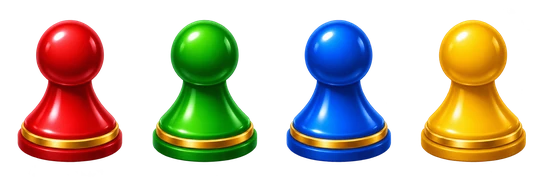
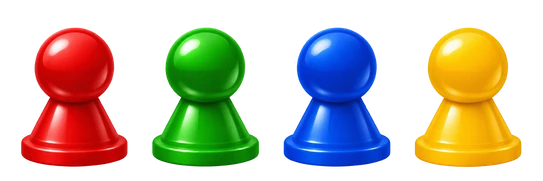
Polish Ludu Mahir pawns, dice, and gameplay feedback

diff --git a/games/ludo/ludo.css b/games/ludo/ludo.css
@@ -996,6 +996,7 @@ body.ludo-game .play-toolbar .board-logo img{position:absolute;inset:0;width:100
 body.ludo-game .play-toolbar .board-logo strong{position:relative;z-index:1}
 body.ludo-game #status,body.ludo-game .color-hint{position:absolute!important;width:1px!important;height:1px!important;padding:0!important;margin:-1px!important;overflow:hidden!important;clip:rect(0,0,0,0)!important;white-space:nowrap!important;border:0!important}
 @media(max-width:620px){body.ludo-game .ludo-stage{gap:3px;margin:2px auto 6px}body.ludo-game .board.ludo{width:min(100%,min(83vh,100vw));padding:4px;border-width:5px;border-radius:14px}body.ludo-game .play-toolbar{gap:4px;padding:2px 5px}body.ludo-game .play-toolbar .board-round-button{width:44px;height:44px;border-width:2px;padding:4px}body.ludo-game .play-toolbar .board-logo{height:64px;font-size:clamp(1.5rem,7.4vw,1.95rem)}body.ludo-game .player-dice{min-height:48px;border-radius:13px;padding:3px}body.ludo-game .player-dice .die-face{width:42px;height:42px;border-radius:11px}}
+@media(max-width:620px){body.ludo-game.playing-ludo .play-toolbar .board-round-button{position:relative;width:44px!important;height:44px!important;padding:0!important;border:0!important;background:transparent!important;box-shadow:none!important}body.ludo-game.playing-ludo .play-toolbar .board-round-button::before{content:"";position:absolute;inset:4px;border:2px solid #f5d17a;border-radius:50%;background:radial-gradient(circle at 35% 27%,#9b5a25,#431c0d 68%,#241008);box-shadow:0 0 0 1px #652d12,0 2px 4px #150700,inset 0 1px #fff8;pointer-events:none}body.ludo-game.playing-ludo .play-toolbar .board-round-button svg{position:relative;z-index:1;width:27px;height:27px}}
 body.ludo-game .board.ludo .home-base.inactive-home{background:linear-gradient(145deg,#fbf5e8,#e7dac1)!important;border-color:#aa8d62}
 body.ludo-game .board.ludo .lane.inactive-lane{background:linear-gradient(145deg,#fffef7,#e9dfcb)!important}
 
@@ -1004,7 +1005,7 @@ body.ludo-game.playing-ludo .player-dice .die-face.rolling{animation:ludu-die-tu
 body.ludo-game.playing-ludo .player-dice .die-face.rolling .die-pip{visibility:hidden;opacity:0}
 @keyframes ludu-die-tumble{0%{transform:perspective(240px) rotateX(0) rotateY(0) rotateZ(0) scale(1)}16%{transform:perspective(240px) rotateX(160deg) rotateY(220deg) rotateZ(300deg) translateY(-7px) scale(1.08)}34%{transform:perspective(240px) rotateX(370deg) rotateY(510deg) rotateZ(660deg) translateY(2px)}53%{transform:perspective(240px) rotateX(590deg) rotateY(770deg) rotateZ(990deg) translateY(-5px) scale(1.04)}73%{transform:perspective(240px) rotateX(770deg) rotateY(1030deg) rotateZ(1310deg) translateY(1px)}100%{transform:perspective(240px) rotateX(1080deg) rotateY(1440deg) rotateZ(1800deg) translateY(0) scale(1)}}
 body.ludo-game.playing-ludo .board.ludo span.moving{animation:ludu-pawn-hop var(--pawn-motion-duration,320ms) cubic-bezier(.2,.72,.3,1) both}
-body.ludo-game.playing-ludo .board.ludo span.captured-return{animation-duration:calc(var(--pawn-motion-duration,160ms))}
+body.ludo-game.playing-ludo .board.ludo span.captured-return{animation-duration:calc(var(--pawn-motion-duration,80ms))}
 
 /* Reference-shaped pawn pieces: glossy colored bodies, rounded heads, and gold bases. */
 body.ludo-game .board.ludo span.ludo-pawn{position:absolute!important;inset:-3%!important;width:106%!important;height:106%!important;display:block!important;overflow:visible!important;border:0!important;border-radius:0!important;background:transparent!important;box-shadow:none!important;color:transparent!important;font-size:0!important;line-height:0!important;filter:drop-shadow(0 2px 2px #180802a8);pointer-events:auto}
@@ -1028,14 +1029,14 @@ body.ludo-game.playing-ludo .player-dice .die-side-pips{display:grid;grid-templa
 body.ludo-game.playing-ludo .player-dice .die-side-pips .die-pip{position:static;display:block;width:clamp(4px,.78vw,8px);height:clamp(4px,.78vw,8px);margin:0;border-radius:50%;background:radial-gradient(circle at 27% 22%,#56483b,#19120d 72%);box-shadow:inset 0 1px 1px #000b,0 1px #fff9;visibility:visible!important;opacity:1!important}
 body.ludo-game.playing-ludo .player-dice .die-face.pip-1{--face-x:0deg;--face-y:0deg}
 body.ludo-game.playing-ludo .player-dice .die-face.pip-2{--face-x:0deg;--face-y:-90deg}
-body.ludo-game.playing-ludo .player-dice .die-face.pip-3{--face-x:90deg;--face-y:0deg}
-body.ludo-game.playing-ludo .player-dice .die-face.pip-4{--face-x:-90deg;--face-y:0deg}
+body.ludo-game.playing-ludo .player-dice .die-face.pip-3{--face-x:-90deg;--face-y:0deg}
+body.ludo-game.playing-ludo .player-dice .die-face.pip-4{--face-x:90deg;--face-y:0deg}
 body.ludo-game.playing-ludo .player-dice .die-face.pip-5{--face-x:0deg;--face-y:90deg}
 body.ludo-game.playing-ludo .player-dice .die-face.pip-6{--face-x:0deg;--face-y:180deg}
 body.ludo-game.playing-ludo .player-dice .die-face.roll-to-1{--roll-x:0deg;--roll-y:0deg}
 body.ludo-game.playing-ludo .player-dice .die-face.roll-to-2{--roll-x:0deg;--roll-y:-90deg}
-body.ludo-game.playing-ludo .player-dice .die-face.roll-to-3{--roll-x:90deg;--roll-y:0deg}
-body.ludo-game.playing-ludo .player-dice .die-face.roll-to-4{--roll-x:-90deg;--roll-y:0deg}
+body.ludo-game.playing-ludo .player-dice .die-face.roll-to-3{--roll-x:-90deg;--roll-y:0deg}
+body.ludo-game.playing-ludo .player-dice .die-face.roll-to-4{--roll-x:90deg;--roll-y:0deg}
 body.ludo-game.playing-ludo .player-dice .die-face.roll-to-5{--roll-x:0deg;--roll-y:90deg}
 body.ludo-game.playing-ludo .player-dice .die-face.roll-to-6{--roll-x:0deg;--roll-y:180deg}
 body.ludo-game.playing-ludo .player-dice .die-face.rolling{animation:none!important;backface-visibility:visible}
@@ -1052,3 +1053,35 @@ body.ludo-game .board.ludo span.ludo-pawn.sprite-pawn[data-color="0"]{background
 body.ludo-game .board.ludo span.ludo-pawn.sprite-pawn[data-color="1"]{background-position:66.6667% 50%!important}
 body.ludo-game .board.ludo span.ludo-pawn.sprite-pawn[data-color="2"]{background-position:33.3333% 50%!important}
 body.ludo-game .board.ludo span.ludo-pawn.sprite-pawn[data-color="3"]{background-position:100% 50%!important}
+body.ludo-game .board.ludo span.ludo-pawn:not(.sprite-pawn){filter:none!important}
+body.ludo-game .board.ludo span.ludo-pawn:not(.sprite-pawn) .pawn-base{border-color:color-mix(in srgb,var(--piece-color) 62%,white);background:linear-gradient(180deg,color-mix(in srgb,var(--piece-color) 78%,white),var(--piece-color) 42%,color-mix(in srgb,var(--piece-color) 56%,#100805));box-shadow:inset 0 2px 2px #fff8,0 2px 2px #18080366}
+body.ludo-game .board.ludo span.ludo-pawn:not(.sprite-pawn) .pawn-head{border:0}
+
+/* During a roll, gently lift usable pawns so players can spot their pieces.
+   Finished pawns never receive these classes and stay completely still. */
+body.ludo-game.playing-ludo .board.ludo span.ludo-pawn.pawn-presence-hint,
+body.ludo-game.playing-ludo .board.ludo span.ludo-pawn.pawn-ready-hint{animation:pawn-location-hint 620ms ease-in-out infinite;animation-delay:calc(var(--pawn-order,0)*85ms);transform-origin:50% 100%}
+@keyframes pawn-location-hint{0%,100%{translate:0 0}50%{translate:0 -2px}}
+
+/* Each player opens only their own in-yard color palette before play. */
+body.ludo-game.playing-ludo .board.ludo .home-base .yard-color-controls{position:absolute;z-index:14;top:7%;right:7%;display:block;overflow:visible}
+body.ludo-game.playing-ludo .board.ludo .yard-color-controls[hidden]{display:none!important}
+body.ludo-game.playing-ludo .yard-color-trigger{position:relative;display:grid;place-items:center;width:26px;height:26px;padding:2px;border:1.5px solid #f1d37c;border-radius:50%;background:radial-gradient(circle at 34% 25%,#fff7,#72411c 62%,#301409);box-shadow:0 1px 2px #16070088;cursor:pointer;touch-action:manipulation}
+body.ludo-game.playing-ludo .yard-color-trigger svg{display:block;width:100%;height:100%}
+body.ludo-game.playing-ludo .yard-color-swatches{position:absolute;z-index:1;top:50%;right:32px;display:grid;grid-template-columns:repeat(4,19px);gap:5px;width:max-content;padding:8px;border:1px solid #f3d47e;border-radius:12px;background:#26130eeF;box-shadow:0 3px 9px #16070055;transform:translateY(-50%)}
+body.ludo-game.playing-ludo .yard-color-swatches[hidden]{display:none!important}
+body.ludo-game.playing-ludo .yard-color-swatch{display:block;width:19px;height:19px;min-height:19px;padding:0;border:2px solid #fff9;border-radius:50%;background:var(--swatch);box-shadow:inset 0 1px 2px #fff7;cursor:pointer}
+body.ludo-game.playing-ludo .yard-color-swatch.selected{outline:2px solid #fff;outline-offset:1px}
+body.ludo-game.playing-ludo .yard-color-swatch:disabled{opacity:.24;cursor:default;filter:grayscale(1)}
+
+/* Rank celebrations fill the ranked player's own home and stay until reset. */
+body.ludo-game.playing-ludo .board.ludo .home-base .yard-celebration{inset:5%!important;width:auto!important;height:auto!important;display:grid;place-content:center;gap:4px;border-radius:18px;background:radial-gradient(ellipse at 50% 35%,color-mix(in srgb,var(--yard-color,#d64443) 86%,white),color-mix(in srgb,var(--yard-color,#d64443) 65%,#170805));box-shadow:inset 0 0 0 3px #fff6,0 0 18px color-mix(in srgb,var(--yard-color,#d64443) 65%,transparent);}
+body.ludo-game.playing-ludo .board.ludo .home-base .yard-celebration.rank-1{border:2px solid #fff1a1;box-shadow:inset 0 0 0 3px #fff8,0 0 18px #ffdc65;animation:yard-winner 1.6s ease-in-out infinite alternate}
+body.ludo-game.playing-ludo .board.ludo .home-base .yard-celebration.rank-1::after{inset:0!important;opacity:.58;animation:firework-spark 1.5s ease-in-out infinite}
+body.ludo-game.playing-ludo .yard-celebration .winner-crown{width:clamp(34px,7vw,76px);height:auto}
+body.ludo-game.playing-ludo .yard-celebration strong{font-size:clamp(1.45rem,6vw,3.5rem);line-height:.9;color:#fff1a1}
+body.ludo-game.playing-ludo .yard-celebration span{font-size:clamp(.82rem,3.2vw,1.5rem);letter-spacing:.08em}
+body.ludo-game.playing-ludo .yard-celebration.rank-2{animation:yard-celebrate 2s ease-in-out infinite alternate}
+body.ludo-game.playing-ludo .yard-celebration.rank-3{animation:yard-celebrate 2.7s ease-in-out infinite alternate;opacity:.95}
+body.ludo-game.playing-ludo .yard-celebration.rank-4{animation:none;opacity:.9}
+@media(max-width:620px){body.ludo-game.playing-ludo .yard-color-trigger{width:22px;height:22px}body.ludo-game.playing-ludo .yard-color-swatches{grid-template-columns:repeat(4,16px);gap:4px;padding:6px;right:27px}body.ludo-game.playing-ludo .yard-color-swatch{width:16px;height:16px;min-height:16px}}

diff --git a/games/ludo/index.html b/games/ludo/index.html
@@ -5,9 +5,9 @@
   <meta name="viewport" content="width=device-width, initial-scale=1">
   <title>Ludu Mahir | Walid AI Games</title>
   <link rel="icon" href="/kathgolap-logo.png">
-  <link rel="stylesheet" href="../arcade.css?v=20261107ludu-board11">
-  <link rel="stylesheet" href="./ludo.css?v=20261107ludu-board11">
-  <script type="module" src="../ludo.mjs?v=20261107ludu-board11"></script>
+  <link rel="stylesheet" href="../arcade.css?v=20261107ludu-board12">
+  <link rel="stylesheet" href="./ludo.css?v=20261107ludu-board12">
+  <script type="module" src="../ludo.mjs?v=20261107ludu-board12"></script>
 
 </head>
 <body class="ludo-game">
@@ -104,16 +104,9 @@
       <button class="online-setting" id="online-coming" type="button">Online Multiplayer — Coming Soon</button>
       <button id="close-settings" type="button">Done</button>
     </dialog>
-    <dialog id="menu-colors-dialog" class="rules-dialog menu-colors-dialog">
-      <h2>Choose Player Colors</h2>
-      <label for="menu-color-player">Player</label><select id="menu-color-player"><option value="0">Player 1</option><option value="1">Player 2</option><option value="2">Player 3</option><option value="3">Player 4</option></select>
-      <label for="menu-color-choice">Color</label><select id="menu-color-choice"></select>
-      <p id="menu-color-confirmation" role="status"></p>
-      <div class="dialog-actions"><button id="apply-menu-color" type="button">Apply Color</button><button id="close-menu-colors" type="button">Done</button></div>
-    </dialog>
         <dialog id="rules-dialog" class="rules-dialog">
       <h2>Game Rules</h2>
-      <ul><li>Roll a six to release a pawn from your yard.</li><li>Move by the exact dice count; a pawn must reach Home exactly.</li><li>Safe star squares protect pawns from capture.</li><li>A six, capture, or finishing move grants another roll.</li><li>Three consecutive sixes pass the turn without moving.</li><li>Finish all four pawns to earn a place in the rankings.</li></ul>
+      <ul><li>Roll a six to release a pawn from your yard.</li><li>Move by the exact dice count; a pawn must reach Home exactly.</li><li>Safe star squares protect pawns from capture.</li><li>A six, capture, or finishing move grants another roll.</li><li>Every legal six grants another roll; a six with no legal move passes the turn.</li><li>Finish all four pawns to earn a place in the rankings.</li></ul>
       <button id="close-rules" type="button">Back to Menu</button>
     </dialog>
     <section id="ludo-play" hidden>
@@ -132,17 +125,7 @@
       <button id="full-screen" type="button">⛶ Full Screen</button>
     </div>
     <div id="seat-options" class="seat-options" hidden></div>
-    <div id="color-picker" class="color-picker" hidden>
-      <strong>Choose your color</strong>
-      <input id="color-seat" type="hidden" value="0">
-      <select id="color-choice" aria-label="Player color">
-        <option value="0">Red</option><option value="1">Blue</option>
-        <option value="2">Green</option><option value="3">Yellow</option>
-      </select>
-      <button type="button" id="color-apply">Apply</button>
-      <button type="button" id="color-cancel">Cancel</button>
-    </div>
-    <p class="color-hint">Before rolling, tap your player name to choose a color.</p>
+    <p class="color-hint">Before rolling, tap the small palette inside your own yard to choose a color.</p>
     <p id="status" role="status"></p>
     <div class="ludo-stage">
       <div id="dice-red" class="player-dice red"></div>
